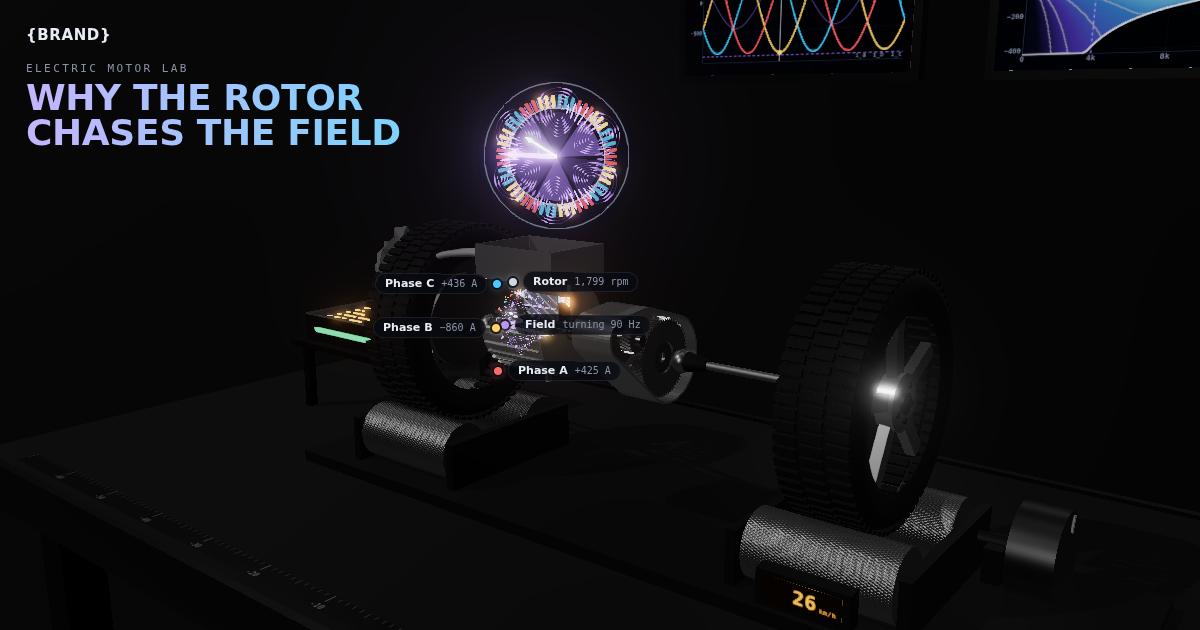
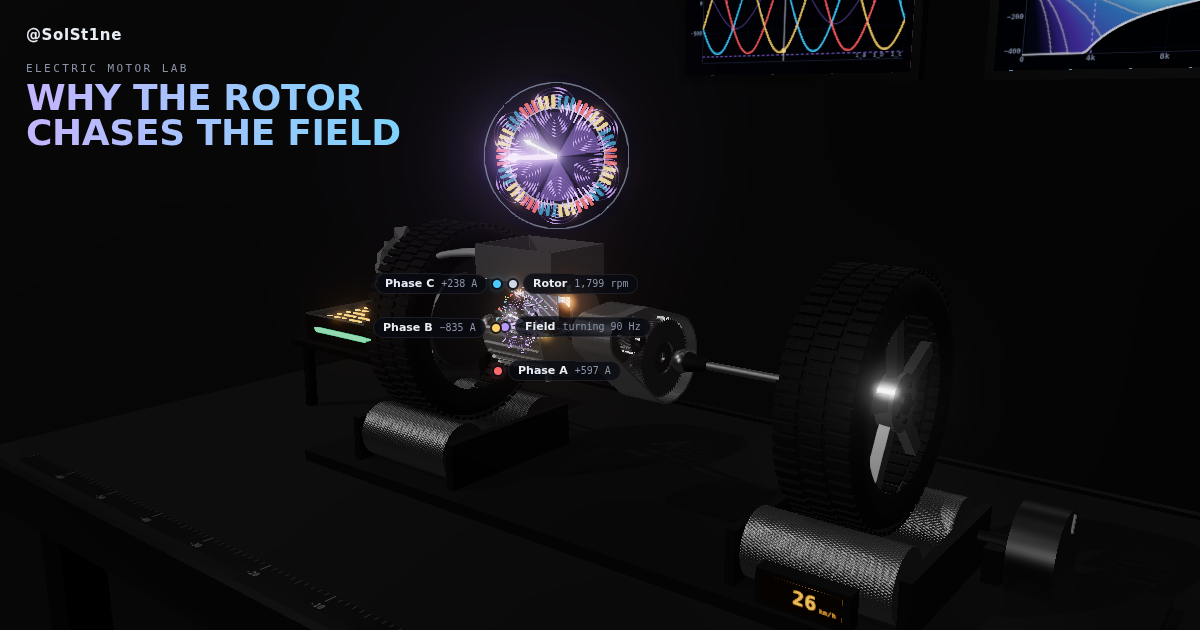
feat: @SolSt1ne brand; Share and Follow move bottom-left
- the wordmark and the bench plate read @SolSt1ne
- Share is a link to the X repost intent of the launch post, Follow opens
  x.com/SolSt1ne (both in src/config/brand.ts); the old share helper is gone
- the Share / Follow row sits bottom-left; at 900-1279 px the camera chips
  drop their subtitles to clear it; on phones it sits top-right
- OG image re-rendered with the new wordmark

Claude-Session: https://claude.ai/code/session_01Ec7wcYgav2KfxtKxzCLGyq

diff --git a/src/ui/layout.ts b/src/ui/layout.ts
@@ -1,7 +1,7 @@
 /**
  * Screen regions (TECH_SPEC §3.1): brand and title block, stat cards, explanation panel and
  * the chart card (mounted by main.ts) in the left column; the control panel top right; camera chips
- * bottom centre; share and "Follow on X" bottom right; help, toasts and the loader on top.
+ * bottom centre; share and "Follow" bottom left; help, toasts and the loader on top.
  */
 import { BRAND } from '@/config/brand';
 import type { SimSnapshot } from '@/physics/types';
@@ -14,7 +14,6 @@ import { h } from '@/ui/dom';
 import { createExplainer } from '@/ui/explainer';
 import { createHelp } from '@/ui/help';
 import { createLoader, type Loader } from '@/ui/loader';
-import { shareLab } from '@/ui/share';
 import { createStatCards } from '@/ui/statCards';
 import { createToaster, type Toaster } from '@/ui/toast';
 
@@ -48,16 +47,16 @@ export function createLayout(root: HTMLElement, store: Store<UiState>, actions: 
   const column = h('div.left-col', {}, title, stats.el, explainer.el);
   const panel = createControlPanel(store, actions);
 
+  // Share reposts the launch post on X; Follow opens the profile
   const shareBtn = h(
-    'button.corner-btn.glass',
-    { type: 'button', 'aria-label': 'Share this lab' },
+    'a.corner-btn.glass',
+    { href: BRAND.shareUrl, target: '_blank', rel: 'noopener', 'aria-label': 'Share: repost on X' },
     'Share ↗',
   );
-  shareBtn.addEventListener('click', () => void shareLab(toast));
   const follow = h(
     'a.corner-btn.glass',
-    { href: `https://x.com/${BRAND.handle}`, target: '_blank', rel: 'noopener' },
-    'Follow on X',
+    { href: BRAND.handleUrl, target: '_blank', rel: 'noopener' },
+    `Follow ${BRAND.handle}`,
   );
   const corner = h('div.corner', {}, shareBtn, follow);
 

diff --git a/src/ui/ui.css b/src/ui/ui.css
@@ -400,7 +400,7 @@
 }
 .corner {
   position: absolute;
-  right: var(--gutter);
+  left: var(--gutter);
   bottom: var(--gutter);
   display: flex;
   gap: 8px;
@@ -863,6 +863,10 @@
   .chart-card.open {
     width: 360px;
   }
+  /* chips keep only their names, so they clear the Share / Follow row bottom-left */
+  .chip span {
+    display: none;
+  }
   .chart-tab {
     padding: 4px 5px;
     font-size: 10.5px;
@@ -890,9 +894,20 @@
     width: 100%;
     border-radius: var(--radius-panel) var(--radius-panel) 0 0;
   }
-  .chips,
-  .corner {
+  .chips {
     display: none;
+  }
+  /* the bottom sheet owns the bottom edge: Share / Follow sit top-right, beside the wordmark */
+  .corner {
+    left: auto;
+    right: 12px;
+    top: 10px;
+    bottom: auto;
+    gap: 6px;
+  }
+  .corner-btn {
+    padding: 5px 9px;
+    font-size: 11px;
   }
   /* bottom sheet: the peek holds presets, throttle and brake */
   .control-panel {

diff --git a/src/main.ts b/src/main.ts
@@ -47,7 +47,6 @@ import { createChartCard } from '@/ui/chartCard';
 import { createDevOverlay } from '@/ui/devOverlay';
 import { installHotkeys } from '@/ui/hotkeys';
 import { createLayout } from '@/ui/layout';
-import { setShareUrlProvider } from '@/ui/share';
 import { smoothstep } from '@/util/math';
 import { createRafLoop } from '@/util/rafLoop';
 
@@ -117,8 +116,7 @@ const devKeys: Record<string, () => void> = import.meta.env.DEV
   ? { b: () => store.set({ debugHousing: !store.get().debugHousing }) }
   : {};
 installHotkeys(store, actions, layout.panel.brake, devKeys);
-const urlSync = installUrlSync(store);
-setShareUrlProvider(urlSync.flush);
+installUrlSync(store);
 cameraRig.onUserInput(() => store.set({ cam: null }));
 const startCam = store.get().cam;
 if (startCam) cameraRig.flyTo(startCam, 0);

diff --git a/src/config/brand.ts b/src/config/brand.ts
@@ -1,6 +1,11 @@
-/** Site brand placeholders (TECH_SPEC brand rule): replace with the site's own brand. */
+/**
+ * Brand (TECH_SPEC §3.1): the wordmark top-left, the bench plate, and the Share / Follow links
+ * bottom-left. Never reuse a third-party brand.
+ */
 export const BRAND = {
-  name: '{BRAND}',
-  domain: '{BRAND}.lab',
-  handle: '{HANDLE}',
+  name: '@SolSt1ne',
+  handle: '@SolSt1ne',
+  handleUrl: 'https://x.com/SolSt1ne',
+  /** the Share button reposts the launch post on X */
+  shareUrl: 'https://x.com/intent/retweet?tweet_id=2104553334271103141',
 } as const;

diff --git a/src/scene/environment/bench.ts b/src/scene/environment/bench.ts
@@ -60,7 +60,7 @@ export function createBench(): SceneModule<Group> {
   ctx.fillStyle = '#f3dea0';
   ctx.textAlign = 'center';
   ctx.font = `600 54px ${UI_FONT}`;
-  ctx.fillText(`${BRAND.domain} / electric-motor`, 512, 112);
+  ctx.fillText(`${BRAND.handle} / electric-motor`, 512, 112);
   ctx.font = `500 40px ${MONO_FONT}`;
   ctx.fillText('200 kW class · 1:3', 512, 184);
   plate.texture.needsUpdate = true;

diff --git a/README.md b/README.md
@@ -7,8 +7,9 @@ physics model in `src/physics`.
 
 - Spec: [`TECH_SPEC.md`](TECH_SPEC.md) · Build plan: [`TODO.md`](TODO.md)
 - Brand rule: the drive unit is a generic "200 kW class EV rear drive unit". Tesla may be
-  mentioned in explanatory text, but no Tesla logos, wordmarks or product replicas. `{BRAND}` and
-  `{HANDLE}` live in `src/config/brand.ts`.
+  mentioned in explanatory text, but no Tesla logos, wordmarks or product replicas. The wordmark
+  (@SolSt1ne), the Share link (reposts the launch post on X) and the Follow link live in
+  `src/config/brand.ts`.
 
 ## Run
 
